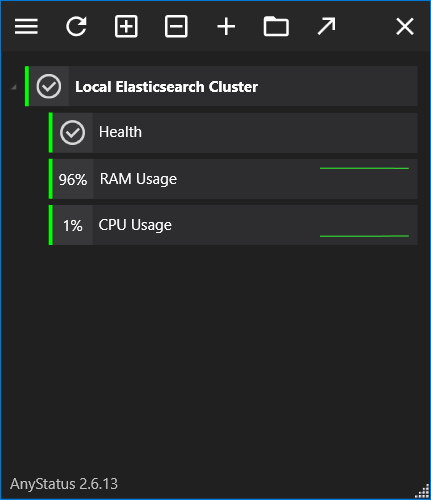
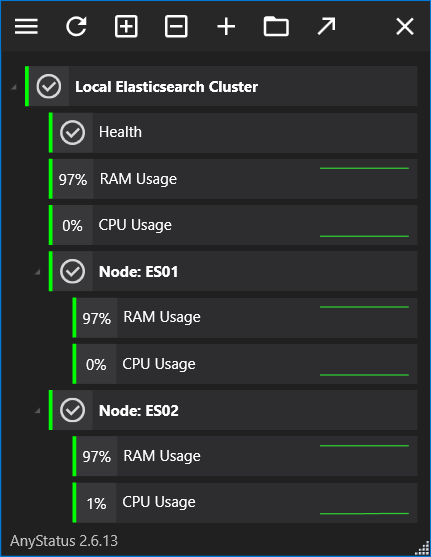
Node CPU&Ram stats added

diff --git a/AnyStatus.Plugins.Elasticsearch/Node/Ram/NodeRamUsageQuery.cs b/AnyStatus.Plugins.Elasticsearch/Node/Ram/NodeRamUsageQuery.cs
@@ -1,0 +1,35 @@
+using AnyStatus.API;
+using Elasticsearch.Net;
+using Nest;
+using System;
+using System.Threading;
+using System.Threading.Tasks;
+
+namespace AnyStatus.Plugins.Elasticsearch.Node.Ram
+{
+    public class NodeRamUsageQuery : IRequestHandler<MetricQueryRequest<NodeRamUsageWidget>>
+    {
+        public async Task Handle(MetricQueryRequest<NodeRamUsageWidget> request, CancellationToken cancellationToken)
+        {
+            var clusterHealthWidget = request.DataContext;
+
+            var connectionPool = new SingleNodeConnectionPool(new Uri($"http://{clusterHealthWidget.MasterIp}:{clusterHealthWidget.MasterPort}"));
+
+            var settings = new ConnectionSettings(connectionPool);
+            var client = new ElasticClient(settings);
+            var nodeId = new NodeIds(new[] { clusterHealthWidget.NodeId });
+
+            var clusterStatsResponse = await client.Cluster.StatsAsync(new ClusterStatsRequest(nodeId) { FilterPath= new[] { "nodes.os.mem.used_percent" } }, cancellationToken);
+
+            if (clusterStatsResponse.IsValid)
+            {
+                request.DataContext.Value = clusterStatsResponse.Nodes.OperatingSystem.Memory.UsedPercent;
+                request.DataContext.State = State.Ok;
+            }
+            else
+            {
+                clusterHealthWidget.State = State.Invalid;
+            }
+        }
+    }
+}

diff --git a/AnyStatus.Plugins.Elasticsearch/Node/CPU/NodeCPUUsageQuery.cs b/AnyStatus.Plugins.Elasticsearch/Node/CPU/NodeCPUUsageQuery.cs
@@ -1,0 +1,35 @@
+using AnyStatus.API;
+using Elasticsearch.Net;
+using Nest;
+using System;
+using System.Threading;
+using System.Threading.Tasks;
+
+namespace AnyStatus.Plugins.Elasticsearch.Node.CPU
+{
+    public class NodeCPUUsageQuery : IRequestHandler<MetricQueryRequest<NodeCPUUsageWidget>>
+    {
+        public async Task Handle(MetricQueryRequest<NodeCPUUsageWidget> request, CancellationToken cancellationToken)
+        {
+            var clusterHealthWidget = request.DataContext;
+
+            var connectionPool = new SingleNodeConnectionPool(new Uri($"http://{clusterHealthWidget.MasterIp}:{clusterHealthWidget.MasterPort}"));
+
+            var settings = new ConnectionSettings(connectionPool);
+            var client = new ElasticClient(settings);
+            var nodeId = new NodeIds(new[] { clusterHealthWidget.NodeId });
+
+            var clusterStatsResponse = await client.Cluster.StatsAsync(new ClusterStatsRequest(nodeId) { FilterPath= new[] { "nodes.process.cpu.percent" } }, cancellationToken);
+
+            if (clusterStatsResponse.IsValid)
+            {
+                request.DataContext.Value = clusterStatsResponse.Nodes.Process.Cpu.Percent;
+                request.DataContext.State = State.Ok;
+            }
+            else
+            {
+                clusterHealthWidget.State = State.Invalid;
+            }
+        }
+    }
+}

diff --git a/AnyStatus.Plugins.Elasticsearch/Node/Ram/NodeRamUsageWidget.cs b/AnyStatus.Plugins.Elasticsearch/Node/Ram/NodeRamUsageWidget.cs
@@ -2,12 +2,12 @@
 using System.ComponentModel;
 using System.ComponentModel.DataAnnotations;
 
-namespace AnyStatus.Plugins.Elasticsearch.Cluster.CPU
+namespace AnyStatus.Plugins.Elasticsearch.Node.Ram
 {
-    [DisplayName("Cluster CPU Usage")]
+    [DisplayName("Node RAM Usage")]
     [DisplayColumn("Elasticsearch")]
-    [Description("Shows the percentage of CPU usage for the Elasticsearch Cluster")]
-    public class ClusterCPUUsageWidget : Sparkline, ISchedulable
+    [Description("Shows the percentage of RAM usage for the Elasticsearch Cluster")]
+    public class NodeRamUsageWidget : Sparkline, ISchedulable
     {
         [Required]
         [Category("Master")]
@@ -19,9 +19,14 @@ namespace AnyStatus.Plugins.Elasticsearch.Cluster.CPU
         [Description("Elasticsearch master server port")]
         public int MasterPort { get; set; }
 
-        public ClusterCPUUsageWidget()
+        [Required]
+        [Category("Node")]
+        [Description("Elasticsearch node id")]
+        public string NodeId { get; set; }
+
+        public NodeRamUsageWidget()
         {
-            Name = "Cluster CPU Usage";
+            Name = "Node RAM Usage";
             Symbol = "%";
             MaxValue = 100;
             Interval = 1;

diff --git a/AnyStatus.Plugins.Elasticsearch/Node/CPU/NodeCPUUsageWidget.cs b/AnyStatus.Plugins.Elasticsearch/Node/CPU/NodeCPUUsageWidget.cs
@@ -2,12 +2,12 @@
 using System.ComponentModel;
 using System.ComponentModel.DataAnnotations;
 
-namespace AnyStatus.Plugins.Elasticsearch.Cluster.CPU
+namespace AnyStatus.Plugins.Elasticsearch.Node.CPU
 {
-    [DisplayName("Cluster CPU Usage")]
+    [DisplayName("Node CPU Usage")]
     [DisplayColumn("Elasticsearch")]
     [Description("Shows the percentage of CPU usage for the Elasticsearch Cluster")]
-    public class ClusterCPUUsageWidget : Sparkline, ISchedulable
+    public class NodeCPUUsageWidget : Sparkline, ISchedulable
     {
         [Required]
         [Category("Master")]
@@ -19,9 +19,14 @@ namespace AnyStatus.Plugins.Elasticsearch.Cluster.CPU
         [Description("Elasticsearch master server port")]
         public int MasterPort { get; set; }
 
-        public ClusterCPUUsageWidget()
+        [Required]
+        [Category("Node")]
+        [Description("Elasticsearch node id")]
+        public string NodeId { get; set; }
+
+        public NodeCPUUsageWidget()
         {
-            Name = "Cluster CPU Usage";
+            Name = "Node CPU Usage";
             Symbol = "%";
             MaxValue = 100;
             Interval = 1;

diff --git a/AnyStatus.Plugins.Elasticsearch.Tests/Widgets/Node/RamUsageTests.cs b/AnyStatus.Plugins.Elasticsearch.Tests/Widgets/Node/RamUsageTests.cs
@@ -1,22 +1,22 @@
 using AnyStatus.API;
-using AnyStatus.Plugins.Elasticsearch.Cluster.CPU;
+using AnyStatus.Plugins.Elasticsearch.Node.Ram;
 using Microsoft.VisualStudio.TestTools.UnitTesting;
 using System.Threading;
 using System.Threading.Tasks;
 
-namespace AnyStatus.Plugins.Elasticsearch.Tests.Widgets.Cluster
+namespace AnyStatus.Plugins.Elasticsearch.Tests.Widgets.Node
 {
     [TestClass]
-    public class CPUUsageTests
+    public class RamUsageTests
     {
         [TestMethod]
-        public async Task ClusterCPUUsageTest()
+        public async Task NodeRamUsageTest()
         {
-            var widget = new ClusterCPUUsageWidget { MasterIp = "127.0.0.1", MasterPort = 9200 };
+            var widget = new NodeRamUsageWidget { MasterIp = "127.0.0.1", MasterPort = 9200, NodeId = "es01" };
 
             var request = MetricQueryRequest.Create(widget);
 
-            var handler = new ClusterCPUUsageQuery();
+            var handler = new NodeRamUsageQuery();
 
             await handler.Handle(request, CancellationToken.None).ConfigureAwait(false);
 

diff --git a/AnyStatus.Plugins.Elasticsearch.Tests/Widgets/Node/CPUUsageTests.cs b/AnyStatus.Plugins.Elasticsearch.Tests/Widgets/Node/CPUUsageTests.cs
@@ -1,22 +1,22 @@
 using AnyStatus.API;
-using AnyStatus.Plugins.Elasticsearch.Cluster.CPU;
+using AnyStatus.Plugins.Elasticsearch.Node.CPU;
 using Microsoft.VisualStudio.TestTools.UnitTesting;
 using System.Threading;
 using System.Threading.Tasks;
 
-namespace AnyStatus.Plugins.Elasticsearch.Tests.Widgets.Cluster
+namespace AnyStatus.Plugins.Elasticsearch.Tests.Widgets.Node
 {
     [TestClass]
     public class CPUUsageTests
     {
         [TestMethod]
-        public async Task ClusterCPUUsageTest()
+        public async Task NodeCPUUsageTest()
         {
-            var widget = new ClusterCPUUsageWidget { MasterIp = "127.0.0.1", MasterPort = 9200 };
+            var widget = new NodeCPUUsageWidget { MasterIp = "127.0.0.1", MasterPort = 9200, NodeId = "es01" };
 
             var request = MetricQueryRequest.Create(widget);
 
-            var handler = new ClusterCPUUsageQuery();
+            var handler = new NodeCPUUsageQuery();
 
             await handler.Handle(request, CancellationToken.None).ConfigureAwait(false);
 

diff --git a/README.md b/README.md
@@ -10,6 +10,8 @@ Widgets for AnyStatus to provide capability to check various Elasticsearch metri
 -  [x] Cluster Health Check
 -  [x] Cluster CPU Usage
 -  [x] Cluster Ram Usage
+-  [x] Node CPU Usage
+-  [x] Node Ram Usage
 
 ## Contribute
 
